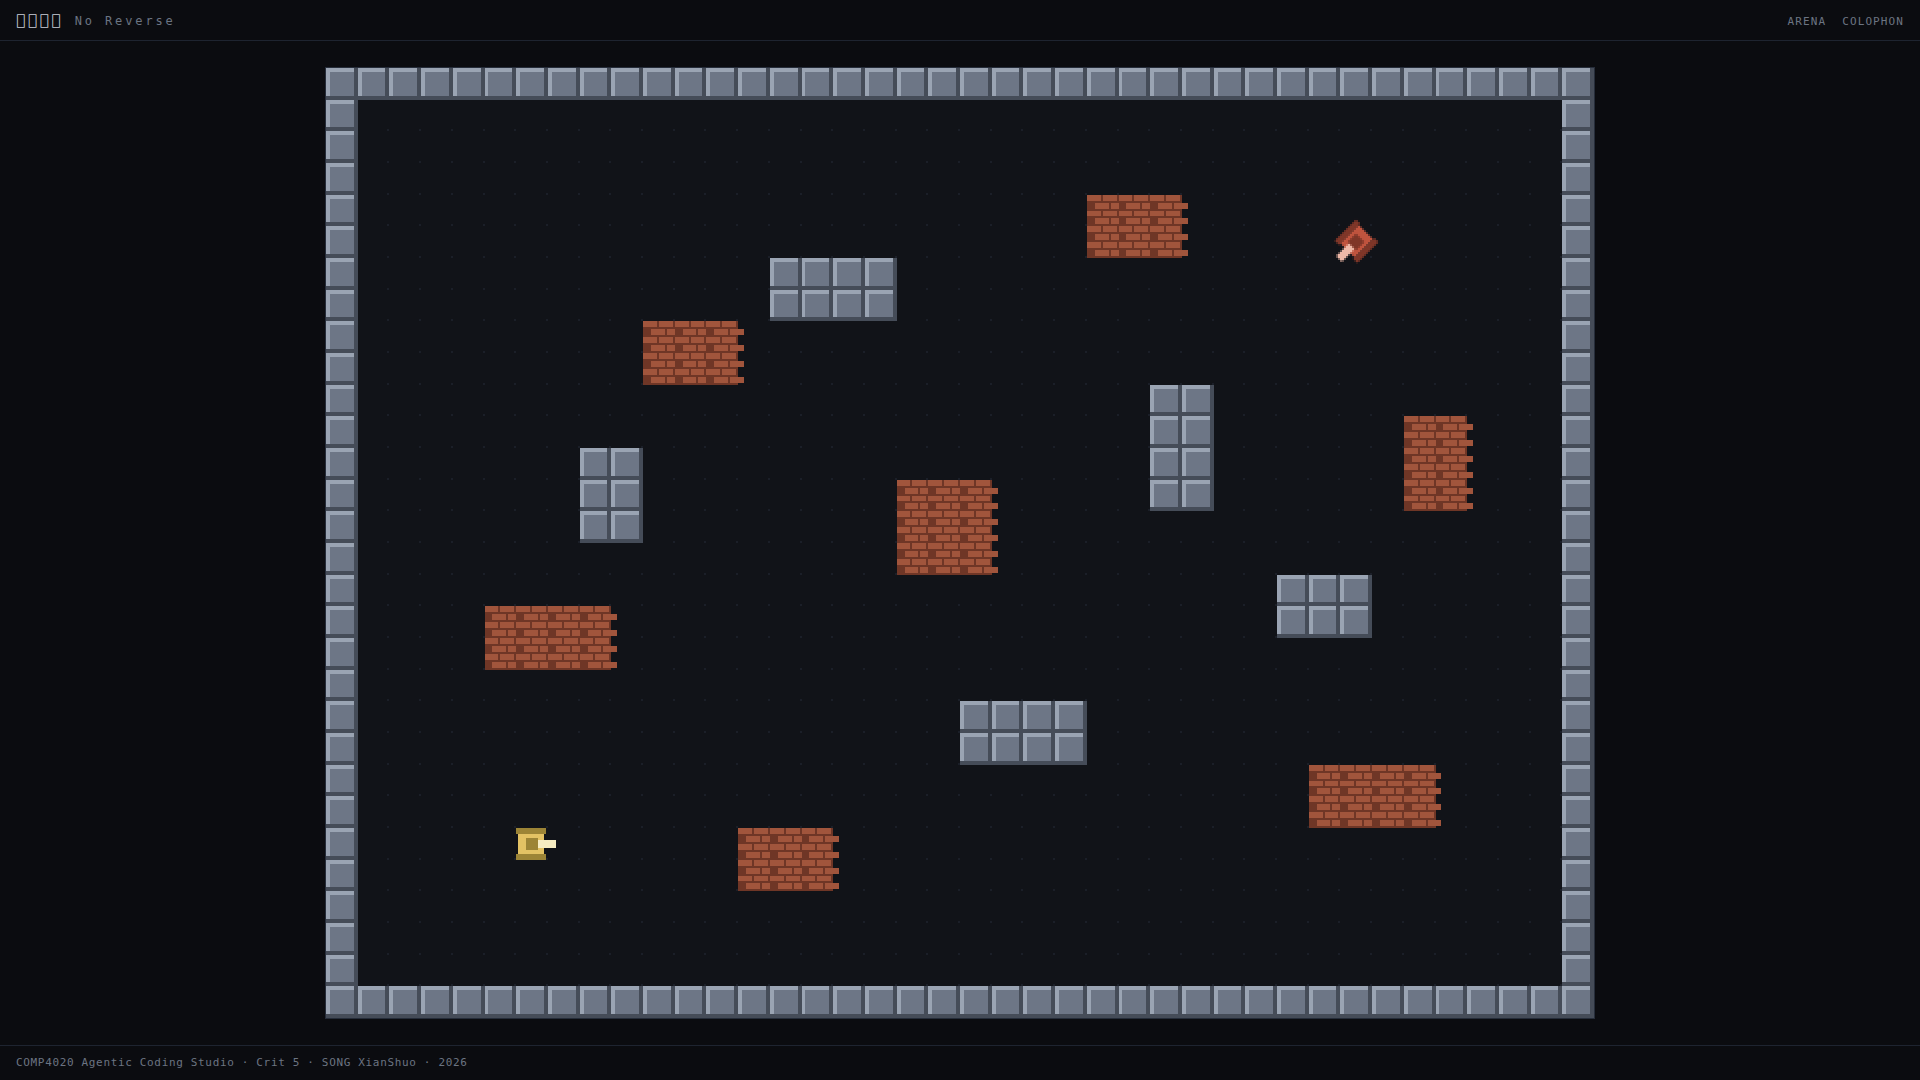
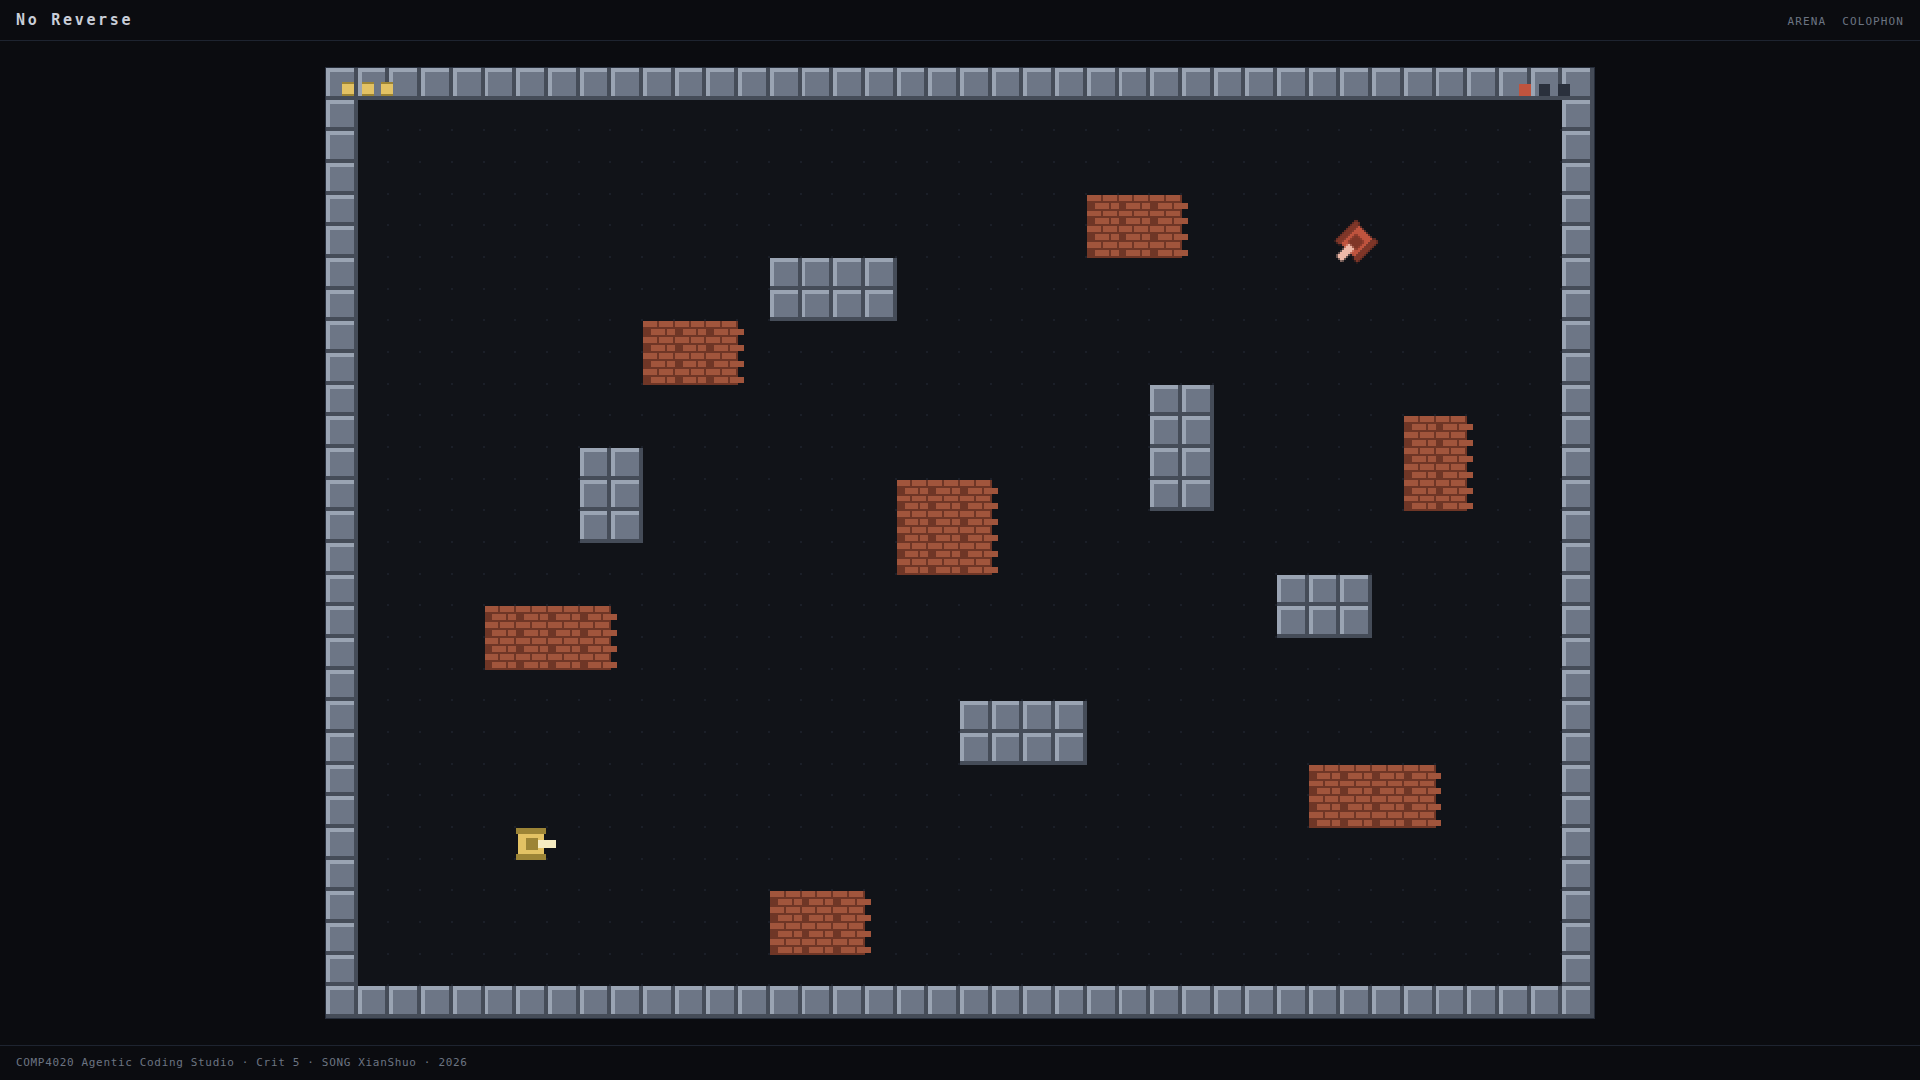
screenshots, and shot.ts stops describing last week

diff --git a/scripts/shot.ts b/scripts/shot.ts
@@ -31,15 +31,14 @@ const VIEWPORTS = [
   { name: "390", width: 390, height: 844 },
 ] as const;
 
-// A still cannot tap, and this instrument has no URL primes: every state worth
-// evidencing is one a hand reaches. So M0 shoots the opening screen only — the
-// state the spec actually names ("the opening screen invites the first sound").
-// A1's scene/step primes (?scene=maze&steps=6000 and friends) were carried in
-// with this script and produced six meaningless near-identical stills per
-// viewport before they were removed.
+// A still cannot play, and this game has no URL primes: every state worth
+// evidencing is one a hand reaches, and the two ending screens are a mouse and
+// ninety seconds away. So this shoots the opening arena only. Crit 5's card
+// image is the exception and has its own page (scripts/card.html), which drives
+// the simulation headlessly before it paints.
 const STATES = [{ suffix: "-intro", query: "" }] as const;
 
-/** A1 had a scroll-away intro to prime past; this page has none. */
+/** Carried forward from a page that had a scroll-away intro; this one does not. */
 function withoutIntro(state: { readonly suffix: string; readonly query: string }): string {
   return state.query;
 }
